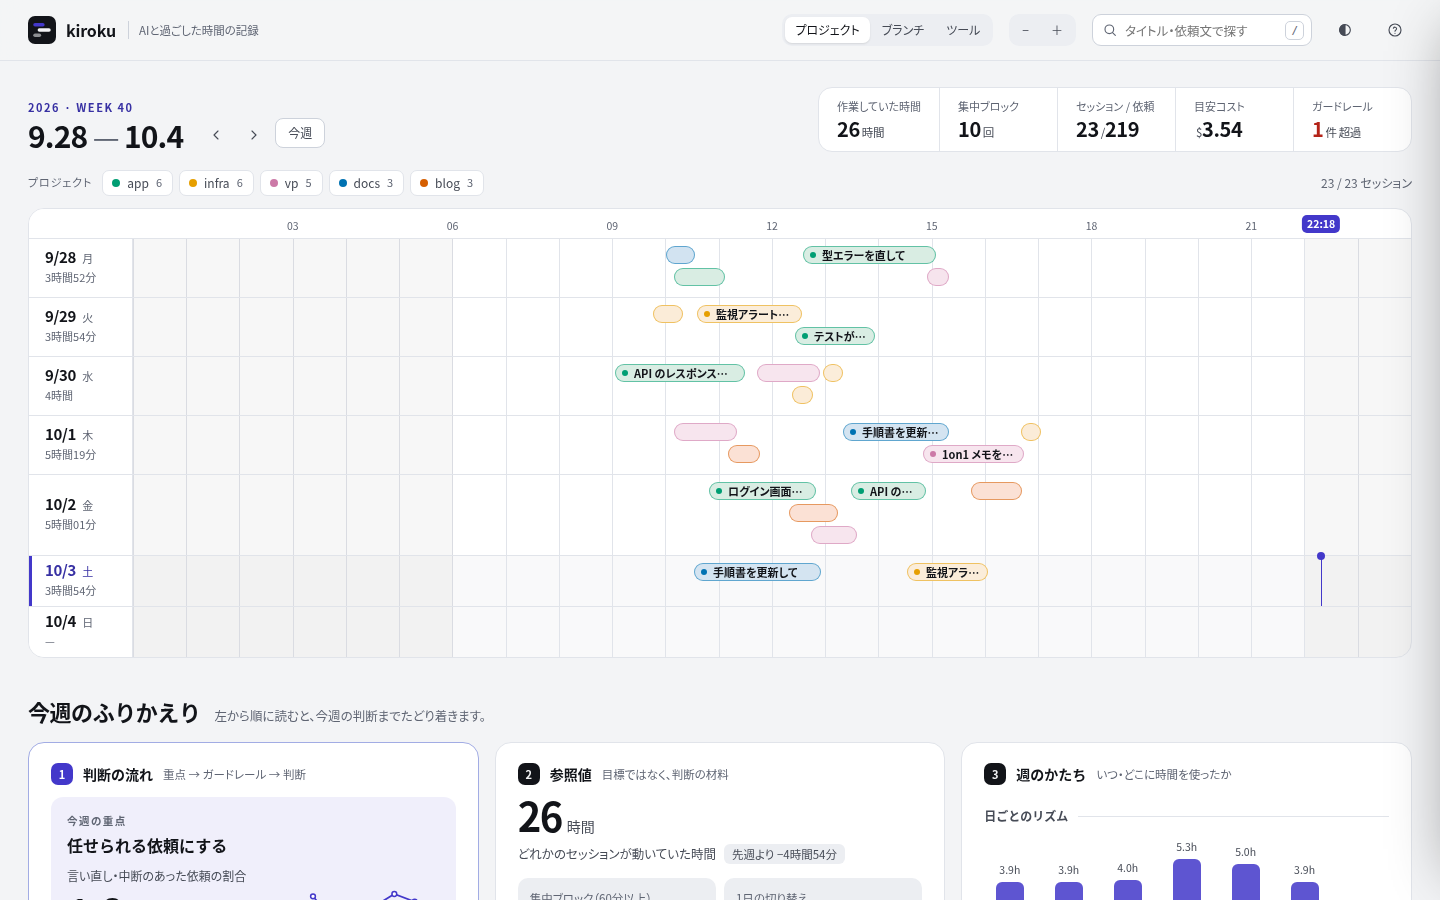
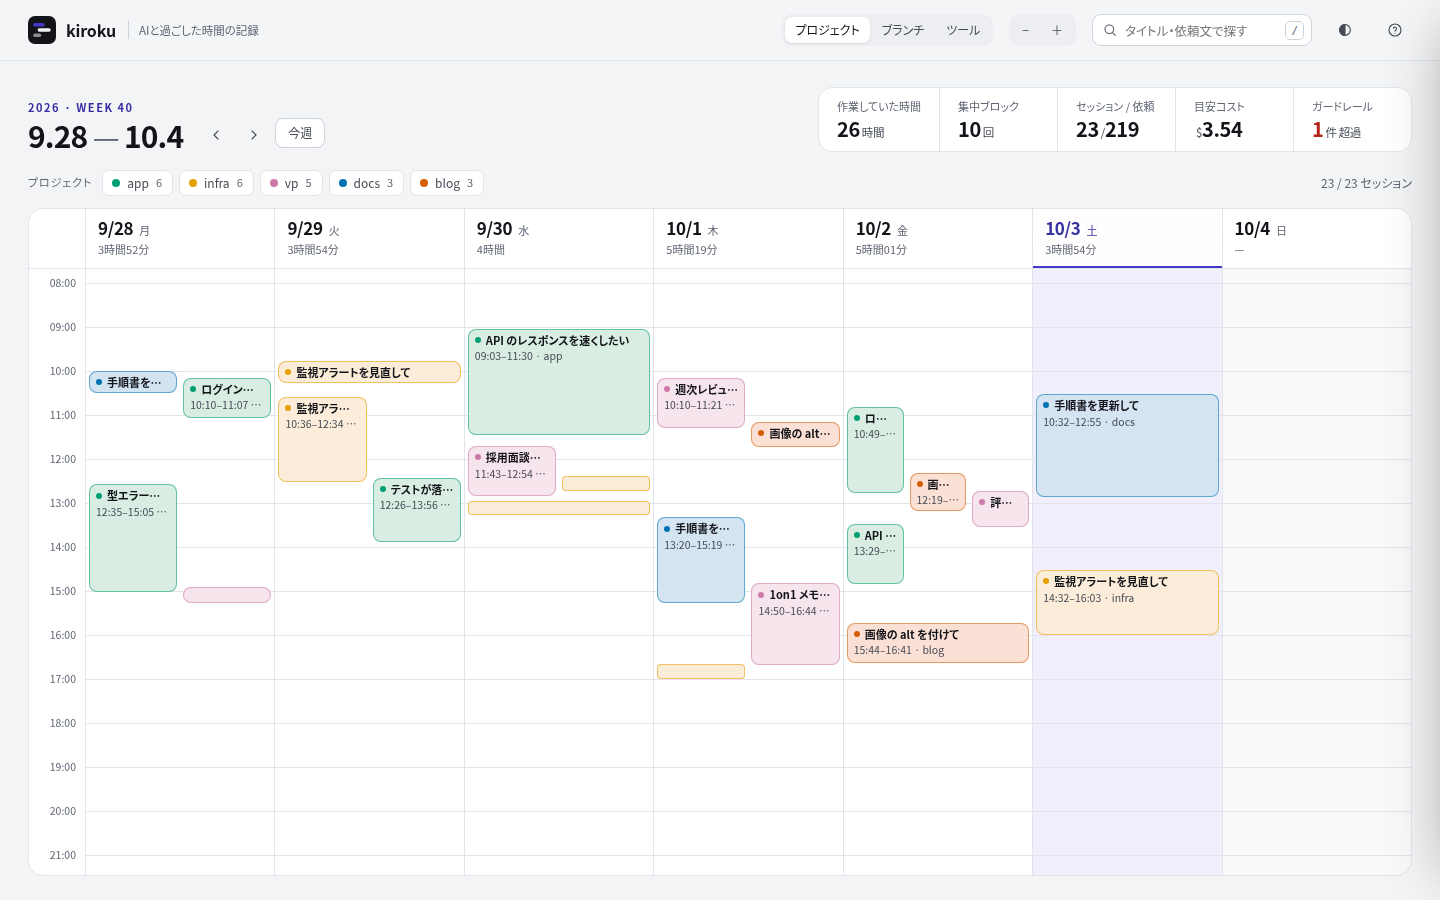
Use a vertical week calendar again
A vertical week view (days as columns, time going down) is what people
already know from calendar apps, so keep that layout and restyle it in
the new design instead of the horizontal timeline: rounded tinted
blocks with a color dot, overlapping sessions side by side, an internal
scroll area with sticky day headers and hour column, vertical zoom, and
auto-scroll to working hours. The week strip, the three-column review
and the slide-in drawer stay as they were.

Claude-Session: https://claude.ai/code/session_01WXnCm54bK3Mj4QdxNoNc9j

diff --git a/internal/web/template.html b/internal/web/template.html
@@ -16,7 +16,7 @@
   --c0:#0072b2; --c1:#d55e00; --c2:#009e73; --c3:#cc79a7; --c4:#e69f00; --c5:#56b4e9; --c6:#7a5cc4; --c7:#9a8a00; --other:#9aa0ab;
   --sans:"Inter","Hiragino Sans","Hiragino Kaku Gothic ProN","Noto Sans JP","Noto Sans CJK JP","Yu Gothic UI",system-ui,sans-serif;
   --mono:ui-monospace,"SFMono-Regular","JetBrains Mono",Menlo,Consolas,monospace;
-  --ease:cubic-bezier(.2,.7,.1,1); --lab:104px;
+  --ease:cubic-bezier(.2,.7,.1,1);
 }
 @media (prefers-color-scheme:dark){:root:not([data-theme="light"]){
   color-scheme:dark;
@@ -103,43 +103,43 @@ kbd{font:11px/1 var(--mono);padding:3px 5px;border-radius:5px;border:1px solid v
 .chip[aria-pressed="false"]{opacity:.45}.chip[aria-pressed="false"] .dot{background:transparent;box-shadow:inset 0 0 0 1.5px var(--c)}
 .legend .count{margin-left:auto;font-size:12px;color:var(--ink-3);white-space:nowrap;padding-left:12px}
 
-/* ── timeline（曜日が行、時刻が横軸） ───────────────────── */
+/* ── week calendar（曜日が列、時刻が縦） ───────────────── */
 .tlbox{background:var(--surface);border:1px solid var(--rule);border-radius:16px;overflow:hidden;position:relative}
-.tlscroll{overflow-x:auto;scrollbar-width:thin}
-.tlin{width:calc(var(--lab) + (100% - var(--lab)) * var(--z,1));min-width:760px;position:relative}
-.axis,.row{display:flex}
-.axis{height:30px;border-bottom:1px solid var(--rule)}
-.axis .corner,.row .lab{width:var(--lab);flex:none;position:sticky;left:0;z-index:3;background:var(--surface)}
-.axis .ticks{flex:1;position:relative}
-.axis .ticks span{position:absolute;top:9px;transform:translateX(-50%);font-size:10.5px;color:var(--ink-3);font-variant-numeric:tabular-nums}
-.axis .ticks span.now{color:var(--on-acc);background:var(--acc);border-radius:5px;padding:1px 5px;top:6px;font-weight:600;z-index:2}
-.row{border-bottom:1px solid var(--rule);min-height:44px}
-.row:last-child{border-bottom:0}
-.row .lab{display:flex;flex-direction:column;justify-content:center;padding:6px 12px 6px 16px;border-right:1px solid var(--rule)}
-.row .lab .dd{display:flex;align-items:baseline;gap:6px}
-.row .lab b{font:700 15px/1.1 var(--sans);font-variant-numeric:tabular-nums;letter-spacing:-.02em}
-.row .lab i{font-style:normal;font-size:11px;color:var(--ink-3)}
-.row .lab small{font-size:11px;color:var(--ink-3);font-variant-numeric:tabular-nums;margin-top:2px}
-.row.today .lab{box-shadow:inset 3px 0 0 var(--acc)}
-.row.today .lab b,.row.today .lab i{color:var(--acc-ink)}
-.row.we .track{background-color:var(--weekend)}
-.track{flex:1;position:relative;padding:7px 0;
-  background-image:repeating-linear-gradient(90deg,var(--rule) 0 1px,transparent 1px calc(100% / 24))}
-.track .nb{position:absolute;top:0;bottom:0;background:var(--night);pointer-events:none}
-.run{position:absolute;height:18px;border-radius:9px;padding:0 8px 0 7px;display:flex;align-items:center;gap:6px;overflow:hidden;cursor:pointer;
+.calscroll{overflow:auto;max-height:min(74vh,880px);scrollbar-width:thin;overscroll-behavior:contain}
+.calin{min-width:720px;position:relative}
+.heads,.cgrid{display:grid;grid-template-columns:56px repeat(7,minmax(0,1fr))}
+.heads{position:sticky;top:0;z-index:4;background:color-mix(in oklab,var(--surface) 92%,transparent);backdrop-filter:blur(8px);border-bottom:1px solid var(--rule)}
+.head{padding:10px 12px 9px;border-left:1px solid var(--rule);min-width:0}
+.head .dd{display:flex;align-items:baseline;gap:6px}
+.head b{font:700 17px/1.1 var(--sans);font-variant-numeric:tabular-nums;letter-spacing:-.02em}
+.head i{font-style:normal;font-size:11px;color:var(--ink-3)}
+.head small{display:block;font-size:11px;color:var(--ink-3);font-variant-numeric:tabular-nums;margin-top:2px}
+.head.today{box-shadow:inset 0 -2px 0 var(--acc)}
+.head.today b,.head.today i{color:var(--acc-ink)}
+.hours{position:sticky;left:0;z-index:3;background:var(--surface)}
+.heads>div:first-child{position:sticky;left:0;z-index:5;background:var(--surface)}
+.hours span{position:absolute;right:9px;transform:translateY(-50%);font-size:10.5px;color:var(--ink-3);font-variant-numeric:tabular-nums}
+.hours span.now{right:4px;color:var(--on-acc);background:var(--acc);border-radius:5px;padding:1px 4px;font-weight:600;z-index:3}
+.day{position:relative;border-left:1px solid var(--rule);background-image:linear-gradient(var(--rule) 1px,transparent 1px);background-size:100% var(--hh)}
+.day.we{background-color:var(--weekend)}
+.day.today{background-color:var(--acc-soft)}
+.day .nb{position:absolute;left:0;right:0;background:var(--night);pointer-events:none}
+.run{position:absolute;border-radius:8px;padding:4px 7px;overflow:hidden;cursor:pointer;display:flex;flex-direction:column;gap:2px;
   background:color-mix(in oklab,var(--c) var(--fill),var(--surface));box-shadow:inset 0 0 0 1px color-mix(in oklab,var(--c) 55%,transparent);
-  font-size:11px;line-height:1;color:var(--ink);text-align:left;white-space:nowrap;
+  font-size:11px;line-height:1.3;color:var(--ink);text-align:left;
   transition:transform .18s var(--ease),box-shadow .18s var(--ease),opacity .25s var(--ease),filter .25s;
-  animation:grow .55s var(--ease) both;animation-delay:var(--delay,0ms);transform-origin:left center}
-.run.lbl::before{content:"";width:6px;height:6px;border-radius:50%;background:var(--c);flex:none}
-.run.tiny{padding:0}
-.run .t{overflow:hidden;text-overflow:ellipsis;font-weight:600}
+  animation:rise .5s var(--ease) both;animation-delay:var(--delay,0ms)}
+.run.thin{padding:0;border-radius:4px}
+.run .t{display:flex;align-items:center;gap:5px;font-weight:600;white-space:nowrap;overflow:hidden;text-overflow:ellipsis;min-width:0}
+.run .t::before{content:"";width:6px;height:6px;border-radius:50%;background:var(--c);flex:none}
+.run .t span{overflow:hidden;text-overflow:ellipsis}
+.run .m{color:var(--ink-2);font-size:10.5px;white-space:nowrap;overflow:hidden;text-overflow:ellipsis;font-variant-numeric:tabular-nums}
 .run:hover{box-shadow:inset 0 0 0 1.5px var(--c),var(--shadow);z-index:2}
 .tlbox.focus .run{opacity:.25;filter:saturate(.5)}
 .tlbox.focus .run.sel{opacity:1;filter:none;box-shadow:inset 0 0 0 2px var(--c),var(--shadow);z-index:2}
-@keyframes grow{from{opacity:0;transform:scaleX(.6)}}
-.nowline{position:absolute;top:0;bottom:0;width:0;border-left:1.5px solid var(--acc);z-index:1;pointer-events:none}
-.nowline::before{content:"";position:absolute;left:-5px;top:-4px;width:8px;height:8px;border-radius:50%;background:var(--acc)}
+@keyframes rise{from{opacity:0;transform:translateY(6px)}}
+.nowline{position:absolute;left:0;right:0;height:0;border-top:1.5px solid var(--acc);z-index:3;pointer-events:none}
+.nowline::before{content:"";position:absolute;left:-4px;top:-4.5px;width:8px;height:8px;border-radius:50%;background:var(--acc)}
 .empty{padding:56px 16px 60px;text-align:center;color:var(--ink-3)}
 .empty svg{width:56px;height:56px;color:var(--rule-2);stroke-width:1.2}
 .empty p{margin:10px 0 0}
@@ -349,8 +349,8 @@ dialog h2{margin-top:0}
   .kpi{border-left:0;border-top:1px solid var(--rule)}
   .kpi:nth-child(-n+2){border-top:0}.kpi:nth-child(even){border-left:1px solid var(--rule)}
   .kpi:last-child:nth-child(odd){grid-column:1/-1}
-  :root{--lab:76px}
-  .row .lab{padding:6px 8px 6px 12px}
+  .calin{min-width:660px}
+  .calscroll{max-height:70vh}
   .rvgrid{grid-template-columns:minmax(0,1fr)}
   .panel{padding:18px 16px}
   .drawer .db{padding:18px 16px 40px}
@@ -369,7 +369,7 @@ dialog h2{margin-top:0}
     <div class="segc" role="group" aria-label="色分け" id="colorBy">
       <button data-v="project">プロジェクト</button><button data-v="branch">ブランチ</button><button data-v="source">ツール</button>
     </div>
-    <div class="segc zoom" role="group" aria-label="時間軸のズーム">
+    <div class="segc zoom" role="group" aria-label="ズーム">
       <button id="zout" aria-label="縮小">−</button><button id="zin" aria-label="拡大">＋</button>
     </div>
     <label class="search"><span class="sr">検索</span>
@@ -392,7 +392,7 @@ dialog h2{margin-top:0}
     <div class="kpis" id="kpis"></div>
   </section>
   <div class="legend" id="legend" aria-label="凡例"></div>
-  <section class="tlbox" id="tl" aria-label="週のタイムライン"></section>
+  <section class="tlbox" id="tl" aria-label="週のカレンダー"></section>
   <section id="review" aria-live="polite"></section>
 </main>
 <div class="scrim" id="scrim"></div>
@@ -407,7 +407,7 @@ dialog h2{margin-top:0}
   <div class="eyebrow">Shortcuts</div><h2>キーボード操作</h2>
   <div class="keys">
     <kbd>←</kbd><span>前の週</span><kbd>→</kbd><span>次の週</span><kbd>T</kbd><span>今週に戻る</span>
-    <kbd>/</kbd><span>検索</span><kbd>+</kbd><span>時間軸を拡大（<kbd>−</kbd> で縮小）</span>
+    <kbd>/</kbd><span>検索</span><kbd>+</kbd><span>拡大（<kbd>−</kbd> で縮小）</span>
     <kbd>Esc</kbd><span>詳細を閉じる</span><kbd>?</kbd><span>この一覧</span>
   </div>
   <form method="dialog" style="margin-top:22px;text-align:right"><button class="pill">閉じる</button></form>
@@ -422,7 +422,7 @@ const DOW = ["日","月","火","水","木","金","土"], SLOTS = 8;
 const $ = s => document.querySelector(s);
 const store = { get(k,d){ try { const v = localStorage.getItem("kiroku:"+k); return v == null ? d : JSON.parse(v); } catch(e){ return d; } },
                 set(k,v){ try { localStorage.setItem("kiroku:"+k, JSON.stringify(v)); } catch(e){} } };
-const st = { z: store.get("z", 0), colorBy: store.get("colorBy", "project"), theme: store.get("theme", "auto"),
+const st = { z: store.get("zh", 2), colorBy: store.get("colorBy", "project"), theme: store.get("theme", "auto"),
              week: mondayOf(new Date()), hidden: new Set(), sel: null, q: "", animate: true };
 
 /* ── helpers ── */
@@ -462,7 +462,7 @@ function applyTheme(){ const r = document.documentElement; st.theme === "auto" ?
   $("#theme").innerHTML = ICON[st.theme]; $("#theme").setAttribute("aria-label", `テーマ: ${{auto:"自動",light:"ライト",dark:"ダーク"}[st.theme]}`); }
 
 /* ── render ── */
-const ZOOMS = [1, 1.5, 2, 3, 4];
+const HOURS = [28, 36, 44, 56, 72, 96]; // 1 時間の高さ（ズーム）
 function render(){
   assignColors();
   const ws = st.week.getTime()/1000, we = addDays(st.week,7).getTime()/1000;
@@ -505,44 +505,42 @@ function kpis(){
     kpi("ガードレール", over ? `${over}<small>件 超過</small>` : `<small>範囲内</small>`, over ? "alert" : "");
 }
 
-/* 週のタイムライン：曜日が行、0〜24 時が横軸。重なるセッションは行の中で段を分ける */
+/* 週のカレンダー：曜日が列、時刻が縦。重なるセッションだけ横に並べる */
 function timeline(shown, inWeek, ws, we, todayKey){
-  const T = $("#tl"), z = ZOOMS[st.z] || 1;
+  const T = $("#tl"), hh = HOURS[st.z] || 44, H = 24*hh;
   if (!inWeek.length || !shown.length){
     T.innerHTML = `<div class="empty"><svg class="i" viewBox="0 0 24 24"><rect x="3" y="5" width="18" height="15" rx="3"/><path d="M3 10h18M8 3v4M16 3v4"/></svg><p>${inWeek.length ? "条件に合うセッションはありません" : "この週の記録はありません。← → で週を移動できます"}</p></div>`;
     return;
   }
-  const keep = T.querySelector(".tlscroll"), sl = keep ? keep.scrollLeft : 0;
+  const keep = T.querySelector(".calscroll"), top = keep ? keep.scrollTop : null;
   const nowS = Date.now()/1000, w = WEEKS[key(st.week)];
-  const pxMin = Math.max(760, T.clientWidth) * z / 1440; // 1 分あたりの幅（ラベルを出すかの目安）
-  const pct = (t, ds) => (t-ds)/86400*100;
-  let ticks = "";
-  for (let h=0; h<24; h += (z >= 2 ? 1 : 3)) ticks += `<span style="left:${h/24*100}%">${h === 0 ? "" : String(h).padStart(2,"0")}</span>`;
-  if (nowS >= ws && nowS < we){ const ds = new Date(nowS*1000); ds.setHours(0,0,0,0); ticks += `<span class="now" style="left:${pct(nowS, ds.getTime()/1000)}%">${hm(nowS)}</span>`; }
-  let rows = "";
+  let heads = '<div></div>', hours = "", cols = "";
+  for (let h=1; h<24; h++) hours += `<span style="top:${h*hh}px">${String(h).padStart(2,"0")}:00</span>`;
+  if (nowS >= ws && nowS < we){ const d0 = new Date(nowS*1000); d0.setHours(0,0,0,0); hours += `<span class="now" style="top:${(nowS - d0.getTime()/1000)/3600*hh}px">${hm(nowS)}</span>`; }
   const runs = [];
   for (let d=0; d<7; d++){
-    const day = addDays(st.week,d), ds = day.getTime()/1000, de = addDays(st.week,d+1).getTime()/1000;
+    const day = addDays(st.week,d), ds = day.getTime()/1000, de = addDays(st.week,d+1).getTime()/1000, isToday = key(day) === todayKey;
+    const act = w && w.days[d] ? w.days[d].active : 0;
+    heads += `<div class="head${isToday?" today":""}"><div class="dd"><b>${day.getMonth()+1}/${day.getDate()}</b><i>${DOW[day.getDay()]}</i></div><small>${act ? dur(act) : "—"}</small></div>`;
     const blocks = [];
     shown.forEach(s => s.segs.forEach(([a,b,n]) => { const x = Math.max(a,ds), y = Math.min(b,de); if (y > x) blocks.push({s, a:x, b:y, n}); }));
     blocks.sort((p,q) => p.a-q.a || q.b-p.b);
-    const lanes = []; // 段ごとの終わりの時刻
-    blocks.forEach(bk => { let i = lanes.findIndex(e => e <= bk.a - 60); if (i < 0){ i = lanes.length; lanes.push(0); } lanes[i] = bk.b; bk.lane = i; });
-    const act = w && w.days[d] ? w.days[d].active : 0, isToday = key(day) === todayKey;
-    let html = `<div class="nb" style="left:0;width:${6/24*100}%"></div><div class="nb" style="left:${22/24*100}%;right:0"></div>`;
+    // 重なるものだけ横に並べる（かたまりごとに列の数を決める）
+    let cluster = [], cEnd = -1;
+    const flush = () => { const lanes = []; cluster.forEach(bk => { let i = lanes.findIndex(e => e <= bk.a); if (i<0){ i = lanes.length; lanes.push(0); } lanes[i] = bk.b; bk.lane = i; }); cluster.forEach(bk => bk.L = lanes.length); cluster = []; };
+    blocks.forEach(bk => { if (bk.a >= cEnd){ flush(); cEnd = bk.b; } else cEnd = Math.max(cEnd, bk.b); cluster.push(bk); }); flush();
+    let html = `<div class="nb" style="top:0;height:${6*hh}px"></div><div class="nb" style="top:${22*hh}px;height:${2*hh}px"></div>`;
     blocks.forEach((bk, j) => {
-      const left = pct(bk.a, ds), width = Math.max(.25, pct(bk.b, ds) - left), mins = (bk.b-bk.a)/60;
+      const y = (bk.a-ds)/3600*hh, h = Math.max(4, (bk.b-bk.a)/3600*hh - 2), mins = (bk.b-bk.a)/60;
       const dens = Math.min(1, bk.n / Math.max(1, mins) / 2.5), id = runs.length;
       runs.push(bk);
-      html += `<button class="run${mins*pxMin < 16 ? " tiny" : ""}${mins*pxMin >= 76 ? " lbl" : ""}${st.sel === bk.s.id ? " sel" : ""}" data-r="${id}" style="left:${left}%;width:${width}%;top:${7 + bk.lane*22}px;--c:${colorOf(keyOf(bk.s))};--fill:${Math.round(16+30*dens)}%;${st.animate?`--delay:${d*30+Math.min(j,14)*10}ms`:"animation:none"}" aria-label="${esc(`${bk.s.title}、${bk.s.project}、${md(bk.a)} ${hm(bk.a)}から${hm(bk.b)}`)}">${mins*pxMin >= 76 ? `<span class="t">${esc(bk.s.title)}</span>` : ""}</button>`;
+      html += `<button class="run${h < 16 ? " thin" : ""}${st.sel === bk.s.id ? " sel" : ""}" data-r="${id}" style="top:${y}px;height:${h}px;left:calc(${bk.lane/bk.L*100}% + 3px);width:calc(${100/bk.L}% - 6px);--c:${colorOf(keyOf(bk.s))};--fill:${Math.round(16+30*dens)}%;${st.animate?`--delay:${d*30+Math.min(j,14)*10}ms`:"animation:none"}" aria-label="${esc(`${bk.s.title}、${bk.s.project}、${md(bk.a)} ${hm(bk.a)}から${hm(bk.b)}`)}">${h >= 20 ? `<span class="t"><span>${esc(bk.s.title)}</span></span>` + (h >= 38 ? `<span class="m">${hm(bk.a)}–${hm(bk.b)} · ${esc(bk.s.project)}</span>` : "") : ""}</button>`;
     });
-    if (isToday && nowS >= ds && nowS < de) html += `<div class="nowline" style="left:${pct(nowS, ds)}%"></div>`;
-    rows += `<div class="row${day.getDay()%6===0?" we":""}${isToday?" today":""}">
-      <div class="lab"><div class="dd"><b>${day.getMonth()+1}/${day.getDate()}</b><i>${DOW[day.getDay()]}</i></div><small>${act ? dur(act) : "—"}</small></div>
-      <div class="track" style="min-height:${Math.max(1, lanes.length)*22 + 14}px">${html}</div></div>`;
+    if (isToday && nowS >= ds && nowS < de) html += `<div class="nowline" style="top:${(nowS-ds)/3600*hh}px"></div>`;
+    cols += `<div class="day${day.getDay()%6===0?" we":""}${isToday?" today":""}" style="height:${H}px">${html}</div>`;
   }
-  T.innerHTML = `<div class="tlscroll"><div class="tlin" style="--z:${z}"><div class="axis"><div class="corner"></div><div class="ticks">${ticks}</div></div>${rows}</div></div>`;
-  const sc = T.querySelector(".tlscroll"); sc.scrollLeft = sl;
+  T.innerHTML = `<div class="calscroll" style="--hh:${hh}px"><div class="calin"><div class="heads">${heads}</div><div class="cgrid"><div class="hours" style="height:${H}px">${hours}</div>${cols}</div></div></div>`;
+  if (top != null) T.querySelector(".calscroll").scrollTop = top;
   T.querySelectorAll(".run").forEach(el => { const bk = runs[+el.dataset.r];
     el.onclick = e => { e.stopPropagation(); select(bk.s.id); };
     el.onmouseenter = e => tipOn(e, bk); el.onmousemove = tipMove; el.onmouseleave = tipOff; });
@@ -753,7 +751,7 @@ function select(id){ st.sel = id; tipOff(); render(); if (id) $("#panel").scroll
 function go(n){ st.week = n == null ? mondayOf(new Date()) : addDays(st.week, 7*n); st.sel = null; st.animate = true; render(); scrollToWork(); }
 $("#prev").onclick = () => go(-1); $("#next").onclick = () => go(1); $("#today").onclick = () => go(null);
 $("#zin").onclick = () => zoom(1); $("#zout").onclick = () => zoom(-1);
-function zoom(dv){ st.z = Math.max(0, Math.min(ZOOMS.length-1, st.z+dv)); store.set("z", st.z); render(); scrollToWork(); }
+function zoom(dv){ st.z = Math.max(0, Math.min(HOURS.length-1, st.z+dv)); store.set("zh", st.z); render(); scrollToWork(); }
 document.querySelectorAll("#colorBy button").forEach(b => b.onclick = () => { st.colorBy = b.dataset.v; st.hidden.clear(); store.set("colorBy", st.colorBy); render(); });
 $("#q").oninput = e => { st.q = e.target.value.trim().toLowerCase(); render(); };
 $("#theme").onclick = () => { st.theme = {auto:"light",light:"dark",dark:"auto"}[st.theme]; store.set("theme", st.theme); applyTheme(); };
@@ -767,12 +765,11 @@ document.addEventListener("keydown", e => {
   else if (k === "/"){ e.preventDefault(); $("#q").focus(); } else if (k === "+" || k === "=") zoom(1); else if (k === "-") zoom(-1);
   else if (k === "Escape" && st.sel) select(null); else if (k === "?") $("#keys").showModal();
 });
-function scrollToWork(){ // 拡大しているときは、その週でいちばん早く始まった時刻の少し前へ
-  const sc = $("#tl .tlscroll"); if (!sc) return;
+function scrollToWork(){ // その週でいちばん早く始まった時刻の少し前へ
+  const sc = $("#tl .calscroll"); if (!sc) return;
   const ws = st.week.getTime()/1000, we = ws + 7*86400; let first = 24;
   DATA.forEach(s => s.segs.forEach(([a,b]) => { if (b > ws && a < we){ const d = new Date(Math.max(a,ws)*1000); first = Math.min(first, d.getHours()); } }));
-  const inner = sc.firstElementChild, lab = sc.querySelector(".row .lab"), lw = lab ? lab.offsetWidth : 0;
-  sc.scrollLeft = Math.max(0, ((first === 24 ? 8 : first) - 1) / 24 * (inner.offsetWidth - lw));
+  sc.scrollTop = Math.max(0, Math.max(0, (first === 24 ? 8 : first) - 1) * (HOURS[st.z] || 44) - 14);
 }
 // 今週に記録がなければ、いちばん新しい記録の週から開く
 if (DATA.length && !WEEKS[key(st.week)]) st.week = mondayOf(new Date(DATA[DATA.length-1].end*1000));

diff --git a/main.go b/main.go
@@ -1,4 +1,4 @@
-// kiroku — AI エージェント（Claude Code・Kiro・Kiro Crew・Amazon Q・Codex）の作業履歴を週のタイムラインで振り返る。
+// kiroku — AI エージェント（Claude Code・Kiro・Kiro Crew・Amazon Q・Codex）の作業履歴を週カレンダーで振り返る。
 //
 // 使い方:
 //
@@ -80,7 +80,7 @@ func main() {
 func run(args []string) error {
 	fs := flag.NewFlagSet("kiroku", flag.ContinueOnError)
 	fs.Usage = func() {
-		fmt.Fprintf(fs.Output(), "kiroku %s — AI エージェントの作業履歴を週のタイムラインで振り返る\n\n", version)
+		fmt.Fprintf(fs.Output(), "kiroku %s — AI エージェントの作業履歴を週カレンダーで振り返る\n\n", version)
 		fs.PrintDefaults()
 	}
 	root := fs.String("root", source.DefaultClaudeRoot(), "Claude Code の履歴の場所")

diff --git a/README.md b/README.md
@@ -1,8 +1,8 @@
 # kiroku
 
-AI エージェント（Claude Code・Kiro・Kiro Crew・Amazon Q・Codex）の作業履歴を、1 週間のタイムラインで振り返るツールです。
+AI エージェント（Claude Code・Kiro・Kiro Crew・Amazon Q・Codex）の作業履歴を、週カレンダーで振り返るツールです。
 
-- **一目でわかる**：いつ・どのプロジェクトで・何を頼んでいたかを、曜日ごとのタイムラインで見られます
+- **一目でわかる**：いつ・どのプロジェクトで・何を頼んでいたかを、見慣れた縦型の週カレンダーで見られます
 - **判断に使える**：週ごとに重点を 1 つ決め、ガードレールで行き過ぎに気づき、判断を Markdown に残せます
 - **手元で完結**：各エージェントが自分の PC に残している履歴を読むだけです。どこにも送りません
 
@@ -31,14 +31,14 @@ kiroku --weekly     # 最新の週のふりかえりを Markdown で書き出す
 
 ## 画面でできること
 
-- 曜日を行、0〜24 時を横軸にしたタイムラインに、セッションを帯で表示します（発言が多いほど濃く）。重なったセッションは段を分けます
-- 上の帯に、その週の要点（作業していた時間・集中ブロック・セッション / 依頼・目安コスト・ガードレール）が出ます
+- 縦型の週カレンダーに、セッションを帯で表示します（発言が多いほど濃く）。重なったセッションは横に並べます
+- カレンダーの上に、その週の要点（作業していた時間・集中ブロック・セッション / 依頼・目安コスト・ガードレール）が出ます
 - 色分けはプロジェクト / ブランチ / ツール（エージェント）で切り替え。凡例クリックで表示・非表示
 - 帯をクリックすると、右から詳細が開きます：依頼の流れ（時刻つき）、使ったモデル、サブエージェント、使ったツール、変更したファイル、再開コマンド
-- タイムラインの下に「今週のふりかえり」を 3 列で出します（判断の流れ・参照値・週のかたち）
-- キーボード：`←` `→` で週移動、`T` で今週、`/` で検索、`+` `−` で時間軸のズーム、`Esc` で詳細を閉じる、`?` で一覧
+- カレンダーの下に「今週のふりかえり」を 3 列で出します（判断の流れ・参照値・週のかたち）
+- キーボード：`←` `→` で週移動、`T` で今週、`/` で検索、`+` `−` でズーム、`Esc` で詳細を閉じる、`?` で一覧
 - テーマは自動・ライト・ダークを切り替えられます（右上のボタン）。色分け・ズーム・テーマはブラウザに覚えておきます
-- スマホ幅ではタイムラインを横にスクロールでき、ふりかえりは 1 列になります
+- スマホ幅ではカレンダーを横にスクロールでき、ふりかえりは 1 列になります
 - 色は Okabe–Ito の配色をもとにした 8 色で、色覚の違いがあっても見分けやすくしています。9 番目以降は灰色になります
 
 ## 週のふりかえり
